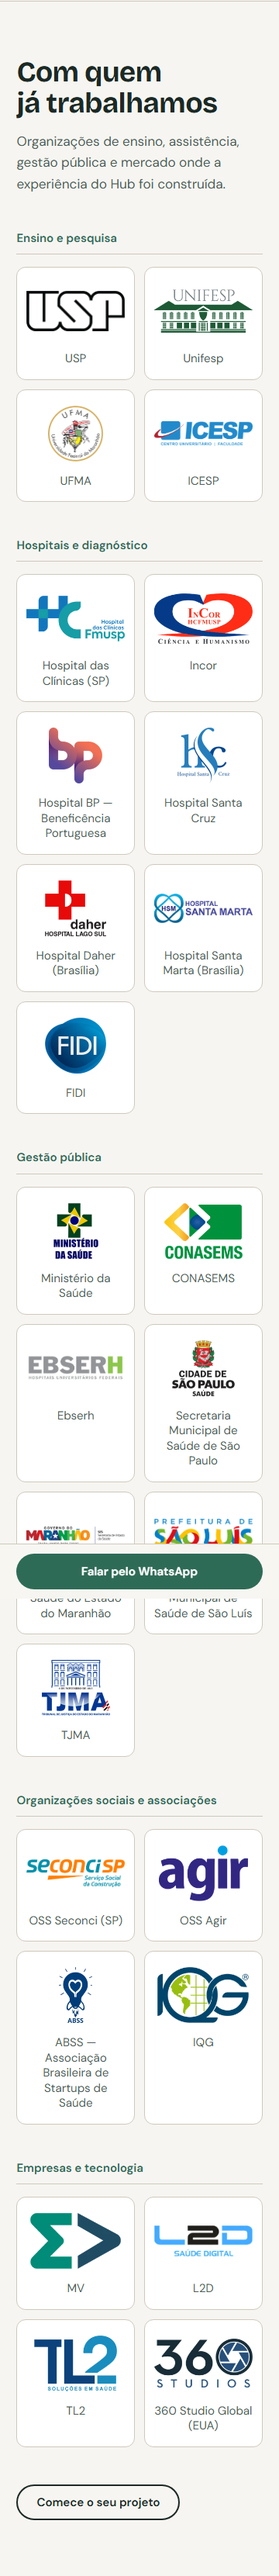
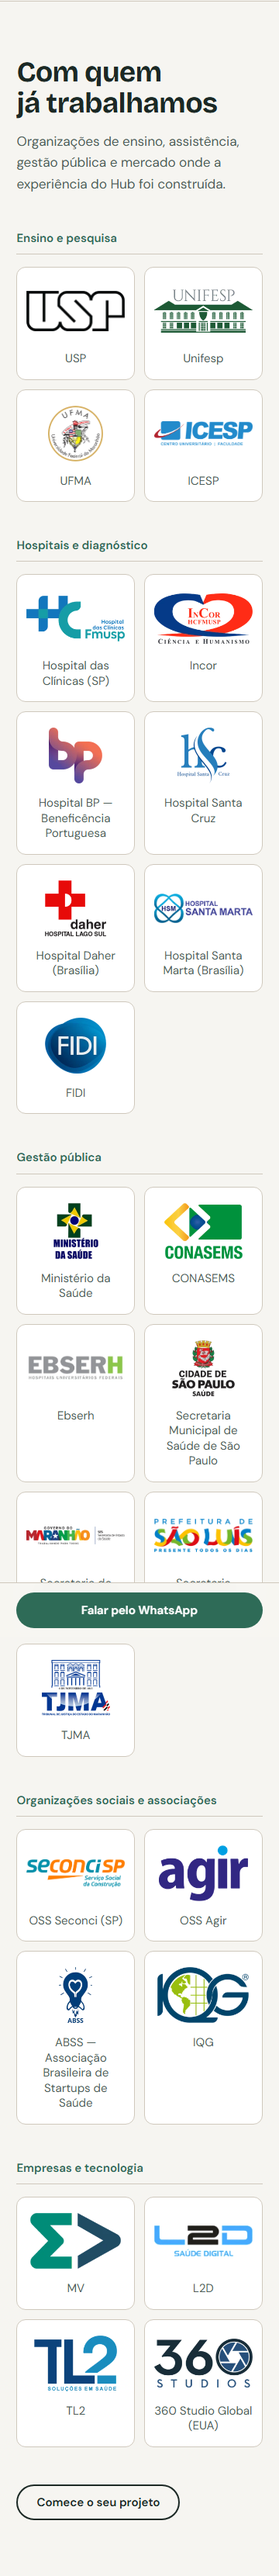
feat(hub-saude-negocios): opcoes de clientes em link proprio (clientes.html), pagina principal intacta -- pedido do dono

Changed region(s): [[0.0611, 0.5893, 0.9472, 0.6513]]

diff --git a/site/hub-saude-negocios/index.html b/site/hub-saude-negocios/index.html
@@ -166,56 +166,57 @@
         <div class="conteudo">
           <h2 id="titulo-experiencia" class="secao__titulo">Com quem já trabalhamos</h2>
           <p class="secao__apoio">Organizações de ensino, assistência, gestão pública e mercado onde a experiência do Hub foi construída.</p>
+          <!-- Nomes em tipo. Logotipo só com autorização: docs/paginas/hub-saude-negocios/autorizacoes.md -->
           <div class="experiencia__grupos">
             <div class="grupo">
               <h3 class="grupo__nome">Ensino e pesquisa</h3>
               <ul class="grupo__lista" role="list">
-                <li class="marca" data-marca="usp"><img class="marca__logo" src="imagens/marcas/usp.webp" alt="" width="128" height="53" loading="lazy" decoding="async"><span class="marca__nome">USP</span></li>
-                <li class="marca" data-marca="unifesp"><img class="marca__logo" src="imagens/marcas/unifesp.webp" alt="" width="124" height="55" loading="lazy" decoding="async"><span class="marca__nome">Unifesp</span></li>
-                <li class="marca" data-marca="ufma"><img class="marca__logo" src="imagens/marcas/ufma.webp" alt="" width="72" height="72" loading="lazy" decoding="async"><span class="marca__nome">UFMA</span></li>
-                <li class="marca" data-marca="icesp"><img class="marca__logo" src="imagens/marcas/icesp.webp" alt="" width="162" height="42" loading="lazy" decoding="async"><span class="marca__nome">ICESP</span></li>
+                <li class="marca" data-marca="usp">USP</li>
+                <li class="marca" data-marca="unifesp">Unifesp</li>
+                <li class="marca" data-marca="ufma">UFMA</li>
+                <li class="marca" data-marca="icesp">ICESP</li>
               </ul>
             </div>
             <div class="grupo">
               <h3 class="grupo__nome">Hospitais e diagnóstico</h3>
               <ul class="grupo__lista" role="list">
-                <li class="marca" data-marca="hc-sp"><img class="marca__logo" src="imagens/marcas/hc-sp.webp" alt="" width="120" height="56" loading="lazy" decoding="async"><span class="marca__nome">Hospital das Clínicas (SP)</span></li>
-                <li class="marca" data-marca="incor"><img class="marca__logo" src="imagens/marcas/incor.webp" alt="" width="115" height="59" loading="lazy" decoding="async"><span class="marca__nome">Incor</span></li>
-                <li class="marca" data-marca="bp"><img class="marca__logo" src="imagens/marcas/bp.webp" alt="" width="69" height="72" loading="lazy" decoding="async"><span class="marca__nome">Hospital BP — Beneficência Portuguesa</span></li>
-                <li class="marca" data-marca="santa-cruz"><img class="marca__logo" src="imagens/marcas/santa-cruz.webp" alt="" width="67" height="72" loading="lazy" decoding="async"><span class="marca__nome">Hospital Santa Cruz</span></li>
-                <li class="marca" data-marca="daher"><img class="marca__logo" src="imagens/marcas/daher.webp" alt="" width="79" height="72" loading="lazy" decoding="async"><span class="marca__nome">Hospital Daher (Brasília)</span></li>
-                <li class="marca" data-marca="santa-marta"><img class="marca__logo" src="imagens/marcas/santa-marta.webp" alt="" width="152" height="45" loading="lazy" decoding="async"><span class="marca__nome">Hospital Santa Marta (Brasília)</span></li>
-                <li class="marca" data-marca="fidi"><img class="marca__logo" src="imagens/marcas/fidi.webp" alt="" width="79" height="72" loading="lazy" decoding="async"><span class="marca__nome">FIDI</span></li>
+                <li class="marca" data-marca="hc-sp">Hospital das Clínicas (SP)</li>
+                <li class="marca" data-marca="incor">Incor</li>
+                <li class="marca" data-marca="bp">Hospital BP — Beneficência Portuguesa</li>
+                <li class="marca" data-marca="santa-cruz">Hospital Santa Cruz</li>
+                <li class="marca" data-marca="daher">Hospital Daher (Brasília)</li>
+                <li class="marca" data-marca="santa-marta">Hospital Santa Marta (Brasília)</li>
+                <li class="marca" data-marca="fidi">FIDI</li>
               </ul>
             </div>
             <div class="grupo">
               <h3 class="grupo__nome">Gestão pública</h3>
               <ul class="grupo__lista" role="list">
-                <li class="marca" data-marca="ministerio-saude"><img class="marca__logo" src="imagens/marcas/ministerio-saude.webp" alt="" width="58" height="72" loading="lazy" decoding="async"><span class="marca__nome">Ministério da Saúde</span></li>
-                <li class="marca" data-marca="conasems"><img class="marca__logo" src="imagens/marcas/conasems.webp" alt="" width="97" height="70" loading="lazy" decoding="async"><span class="marca__nome">CONASEMS</span></li>
-                <li class="marca" data-marca="ebserh"><img class="marca__logo" src="imagens/marcas/ebserh.webp" alt="" width="156" height="43" loading="lazy" decoding="async"><span class="marca__nome">Ebserh</span></li>
-                <li class="marca" data-marca="sms-sp"><img class="marca__logo" src="imagens/marcas/sms-sp.webp" alt="" width="81" height="72" loading="lazy" decoding="async"><span class="marca__nome">Secretaria Municipal de Saúde de São Paulo</span></li>
-                <li class="marca" data-marca="ses-ma"><img class="marca__logo" src="imagens/marcas/ses-ma.webp" alt="" width="180" height="33" loading="lazy" decoding="async"><span class="marca__nome">Secretaria de Saúde do Estado do Maranhão</span></li>
-                <li class="marca" data-marca="sms-sao-luis"><img class="marca__logo" src="imagens/marcas/sms-sao-luis.webp" alt="" width="141" height="48" loading="lazy" decoding="async"><span class="marca__nome">Secretaria Municipal de Saúde de São Luís</span></li>
-                <li class="marca" data-marca="tjma"><img class="marca__logo" src="imagens/marcas/tjma.webp" alt="" width="88" height="72" loading="lazy" decoding="async"><span class="marca__nome">TJMA</span></li>
+                <li class="marca" data-marca="ministerio-saude">Ministério da Saúde</li>
+                <li class="marca" data-marca="conasems">CONASEMS</li>
+                <li class="marca" data-marca="ebserh">Ebserh</li>
+                <li class="marca" data-marca="sms-sp">Secretaria Municipal de Saúde de São Paulo</li>
+                <li class="marca" data-marca="ses-ma">Secretaria de Saúde do Estado do Maranhão</li>
+                <li class="marca" data-marca="sms-sao-luis">Secretaria Municipal de Saúde de São Luís</li>
+                <li class="marca" data-marca="tjma">TJMA</li>
               </ul>
             </div>
             <div class="grupo">
               <h3 class="grupo__nome">Organizações sociais e associações</h3>
               <ul class="grupo__lista" role="list">
-                <li class="marca" data-marca="seconci"><img class="marca__logo" src="imagens/marcas/seconci.webp" alt="" width="155" height="44" loading="lazy" decoding="async"><span class="marca__nome">OSS Seconci (SP)</span></li>
-                <li class="marca" data-marca="agir"><img class="marca__logo" src="imagens/marcas/agir.webp" alt="" width="104" height="65" loading="lazy" decoding="async"><span class="marca__nome">OSS Agir</span></li>
-                <li class="marca" data-marca="abss"><img class="marca__logo" src="imagens/marcas/abss.webp" alt="" width="43" height="72" loading="lazy" decoding="async"><span class="marca__nome">ABSS — Associação Brasileira de Startups de Saúde</span></li>
-                <li class="marca" data-marca="iqg"><img class="marca__logo" src="imagens/marcas/iqg.webp" alt="" width="105" height="64" loading="lazy" decoding="async"><span class="marca__nome">IQG</span></li>
+                <li class="marca" data-marca="seconci">OSS Seconci (SP)</li>
+                <li class="marca" data-marca="agir">OSS Agir</li>
+                <li class="marca" data-marca="abss">ABSS — Associação Brasileira de Startups de Saúde</li>
+                <li class="marca" data-marca="iqg">IQG</li>
               </ul>
             </div>
             <div class="grupo">
               <h3 class="grupo__nome">Empresas e tecnologia</h3>
               <ul class="grupo__lista" role="list">
-                <li class="marca" data-marca="mv"><img class="marca__logo" src="imagens/marcas/mv.webp" alt="" width="105" height="65" loading="lazy" decoding="async"><span class="marca__nome">MV</span></li>
-                <li class="marca" data-marca="l2d"><img class="marca__logo" src="imagens/marcas/l2d.webp" alt="" width="147" height="46" loading="lazy" decoding="async"><span class="marca__nome">L2D</span></li>
-                <li class="marca" data-marca="tl2"><img class="marca__logo" src="imagens/marcas/tl2.webp" alt="" width="100" height="67" loading="lazy" decoding="async"><span class="marca__nome">TL2</span></li>
-                <li class="marca" data-marca="360-studio"><img class="marca__logo" src="imagens/marcas/360-studio.webp" alt="" width="116" height="58" loading="lazy" decoding="async"><span class="marca__nome">360 Studio Global (EUA)</span></li>
+                <li class="marca" data-marca="mv">MV</li>
+                <li class="marca" data-marca="l2d">L2D</li>
+                <li class="marca" data-marca="tl2">TL2</li>
+                <li class="marca" data-marca="360-studio">360 Studio Global (EUA)</li>
               </ul>
             </div>
           </div>
@@ -290,7 +291,7 @@
           </div>
         </div>
         <div class="rodape__base">
-          <p>Esta página é uma proposta de novo site, em avaliação. Nomes e logotipos das organizações pertencem aos seus titulares; a citação não indica endosso.</p>
+          <p>Esta página é uma proposta de novo site, em avaliação. Organizações citadas pelo nome, sem logotipo: a citação não indica endosso.</p>
           <p>Esta página não usa cookies nem coleta dados. O contato acontece pelo WhatsApp, nos termos desse serviço.</p>
           <p>© 2026 Hub Saúde Negócios.</p>
           <p><a href="../">Outras páginas</a></p>

diff --git a/site/hub-saude-negocios/pagina.css b/site/hub-saude-negocios/pagina.css
@@ -221,7 +221,7 @@
 .diferencial dt { font-family: var(--fonte-titulo); font-size: var(--texto-destaque); font-weight: 650; }
 .diferencial dd { margin: var(--espaco-2) 0 0; color: var(--cor-texto-suave); max-width: var(--medida); }
 
-/* ---------- Experiência: vitrine de logotipos, por setor (autorizações: docs/paginas/hub-saude-negocios/autorizacoes.md) ---------- */
+/* ---------- Experiência: parede tipográfica, por setor ---------- */
 .experiencia { padding-block: var(--espaco-9); border-top: 1px solid var(--cor-linha); }
 .experiencia__grupos {
   display: grid;
@@ -236,29 +236,20 @@
   padding-bottom: var(--espaco-3);
   border-bottom: 1px solid var(--cor-linha);
 }
-.grupo__lista {
-  display: grid;
-  grid-template-columns: repeat(auto-fill, minmax(9rem, 1fr));
-  gap: var(--espaco-3);
-  margin-top: var(--espaco-4);
-}
-/* Cada organização: o logotipo numa placa clara e o nome embaixo (o nome é o texto; a imagem é alt=""). */
+.grupo__lista { display: flex; flex-wrap: wrap; gap: var(--espaco-2) var(--espaco-5); margin-top: var(--espaco-4); }
 .grupo__lista .marca {
-  display: grid;
-  grid-template-rows: 5rem 1fr;
-  align-items: center;
-  justify-items: center;
-  gap: var(--espaco-3);
-  padding: var(--espaco-4) var(--espaco-3);
-  background: var(--cor-vitrine);
-  border: 1px solid var(--cor-linha);
-  border-radius: 0.75rem;
-  text-align: center;
+  font-family: var(--fonte-titulo);
+  font-size: var(--texto-destaque);
+  font-weight: 500;
+  line-height: 1.3;
 }
-.marca__logo { max-width: 100%; max-height: 4.5rem; width: auto; height: auto; }
-.marca__nome { align-self: start; font-size: var(--texto-apoio); line-height: 1.3; color: var(--cor-texto-suave); }
+/* Logotipo autorizado: SVG monocromático na cor do texto, todos na mesma altura. */
+.marca__logo { width: auto; max-width: 100%; height: 2rem; }
 @media (min-width: 60rem) {
-  .grupo__lista { grid-template-columns: repeat(7, minmax(0, 1fr)); }
+  .experiencia__grupos { grid-template-columns: repeat(12, minmax(0, 1fr)); column-gap: var(--espaco-6); }
+  .grupo { grid-column: span 4; }
+  .grupo:nth-child(2), .grupo:nth-child(3) { grid-column: span 8; }
+  .grupo:nth-child(3) { grid-column: 5 / -1; }
 }
 
 /* ---------- Quem conduz ---------- */

diff --git a/site/hub-saude-negocios/clientes.css b/site/hub-saude-negocios/clientes.css
@@ -16,6 +16,7 @@
 }
 .aviso-opcao a { color: inherit; }
 
+
 /* ---------- Opção 2: mural — um só painel, logotipos em cinza que ganham cor ao passar o mouse ---------- */
 .mural {
   display: grid;
@@ -127,3 +128,33 @@
 .opcao__descricao { color: var(--cor-texto-suave); }
 .opcao__acao { margin-top: var(--espaco-2); font-weight: 600; color: var(--cor-marca); text-decoration: underline; text-underline-offset: 0.2em; }
 .opcao__link:hover .opcao__nome { text-decoration: underline; }
+
+/* ---------- Opção 1: placas por setor — cada organização numa placa clara, com o nome embaixo ---------- */
+.experiencia--placas .grupo__lista {
+  display: grid;
+  grid-template-columns: repeat(auto-fill, minmax(9rem, 1fr));
+  gap: var(--espaco-3);
+}
+.experiencia--placas .grupo__lista .marca {
+  display: grid;
+  grid-template-rows: 5rem 1fr;
+  align-items: center;
+  justify-items: center;
+  gap: var(--espaco-3);
+  padding: var(--espaco-4) var(--espaco-3);
+  background: var(--cor-vitrine);
+  border: 1px solid var(--cor-linha);
+  border-radius: 0.75rem;
+  font-family: var(--fonte-texto);
+  font-size: var(--texto-apoio);
+  font-weight: 400;
+  text-align: center;
+}
+.experiencia--placas .marca__logo { max-width: 100%; max-height: 4.5rem; width: auto; height: auto; }
+.experiencia--placas .marca__nome { align-self: start; line-height: 1.3; color: var(--cor-texto-suave); }
+@media (min-width: 60rem) {
+  .experiencia--placas .experiencia__grupos { grid-template-columns: none; }
+  .experiencia--placas .grupo,
+  .experiencia--placas .grupo:nth-child(n) { grid-column: auto; }
+  .experiencia--placas .grupo__lista { grid-template-columns: repeat(7, minmax(0, 1fr)); }
+}

diff --git a/site/hub-saude-negocios/clientes-1.html b/site/hub-saude-negocios/clientes-1.html
@@ -165,7 +165,7 @@
         </div>
       </section>
 
-      <section id="experiencia" class="experiencia" aria-labelledby="titulo-experiencia">
+      <section id="experiencia" class="experiencia experiencia--placas" aria-labelledby="titulo-experiencia">
         <div class="conteudo">
           <h2 id="titulo-experiencia" class="secao__titulo">Com quem já trabalhamos</h2>
           <p class="secao__apoio">Organizações de ensino, assistência, gestão pública e mercado onde a experiência do Hub foi construída.</p>

diff --git a/docs/paginas/hub-saude-negocios/checkpoint.md b/docs/paginas/hub-saude-negocios/checkpoint.md
@@ -25,3 +25,11 @@ Quando o dono trouxer as respostas: atualizar `briefing.md` (fonte = mensagem da
 
 ## Arquivos
 `site/hub-saude-negocios/` · `docs/paginas/hub-saude-negocios/` · originais em `entrada/hub-saude-negocios/` (fora do git).
+
+## 2026-09-28 — três opções para a seção de clientes
+- A Carla pediu os logotipos dos clientes; o dono considerou as autorizações como do Hub (`autorizacoes.md`).
+- No ar, **sem mexer na página principal**: `clientes.html` (escolha) → `clientes-1.html` (placas por setor),
+  `clientes-2.html` (mural em cinza), `clientes-3.html` (faixa em movimento). Estilos em `clientes.css`;
+  logotipos em `imagens/marcas/`; token `--cor-vitrine` no `tema.css`.
+- **Próximo passo:** com a escolha, levar a seção e o CSS da opção para `index.html`/`pagina.css`, ajustar a
+  frase do rodapé ("sem logotipo" → titulares), apagar `clientes*.html`, `clientes.css` e as miniaturas.

diff --git a/docs/paginas/hub-saude-negocios/briefing.md b/docs/paginas/hub-saude-negocios/briefing.md
@@ -45,7 +45,7 @@ Página antiga (id 13): `https://hubsaudenegocios.com.br/landing-page-hubsaudene
   - **FIDI**, **L2D**, **TL2**, **IQG**: classificados pelo nome — **confirmar**.
 - O site não diz **o que** foi feito com cada organização nem **quando**: a página diz "com quem já
   trabalhamos", sem "case de sucesso" (não há case descrito).
-- Logotipos das organizações: **dentro** desde 2026-09-28 — autorização considerada do Hub (já os exibe no site oficial), decisão do dono — `autorizacoes.md`.
+- Logotipos das organizações: autorização considerada do Hub (já os exibe no site oficial), decisão do dono em 2026-09-28 — `autorizacoes.md`. Por enquanto só nas três opções em `clientes.html` (clientes-1, -2, -3); o `index.html` segue com os nomes até o Hub escolher.
 - O texto "Sobre" é da Carla, em primeira pessoa, mantido quase literal.
 
 ## Perguntas para o Hub (antes de aprovar)
